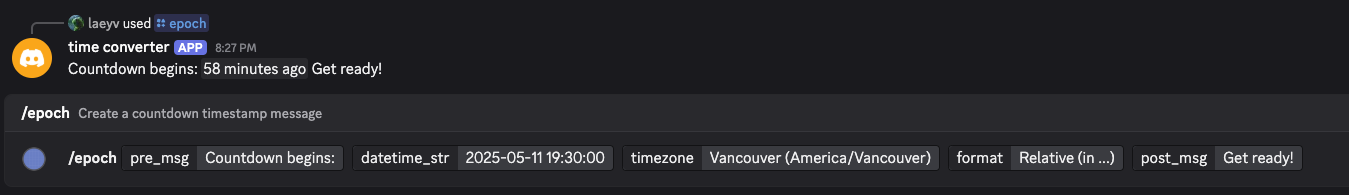
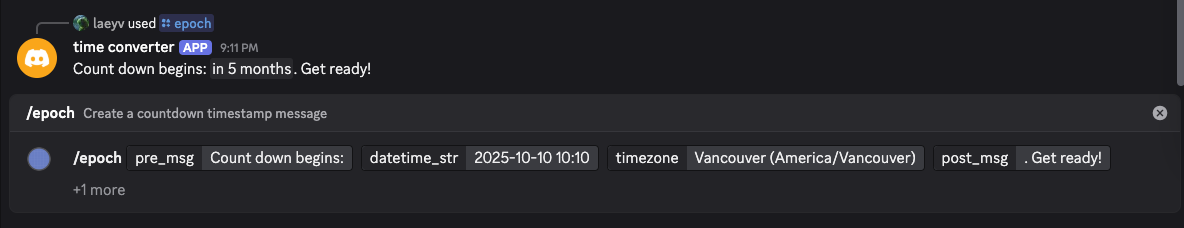
update readme

diff --git a/README.md b/README.md
@@ -6,7 +6,7 @@ A simple Discord bot that converts a datetime string into epoch seconds and form
 
 ## Usage
 ```slash
-/epoch preMsg: "Countdown begins: " datetime: "2025-05-11 19:30:00" timezone: "America/Vancouver"  format: "R" postMsg: " Get ready!"
+/epoch pre_msg:Count down begins: datetime_str:2025-10-10 10:10 timezone:Vancouver (America/Vancouver) post_msg:. Get ready!
 ```
 Note: format is optional, default value is Relative (in 420 days)
 ![Alt text](./image.png)
